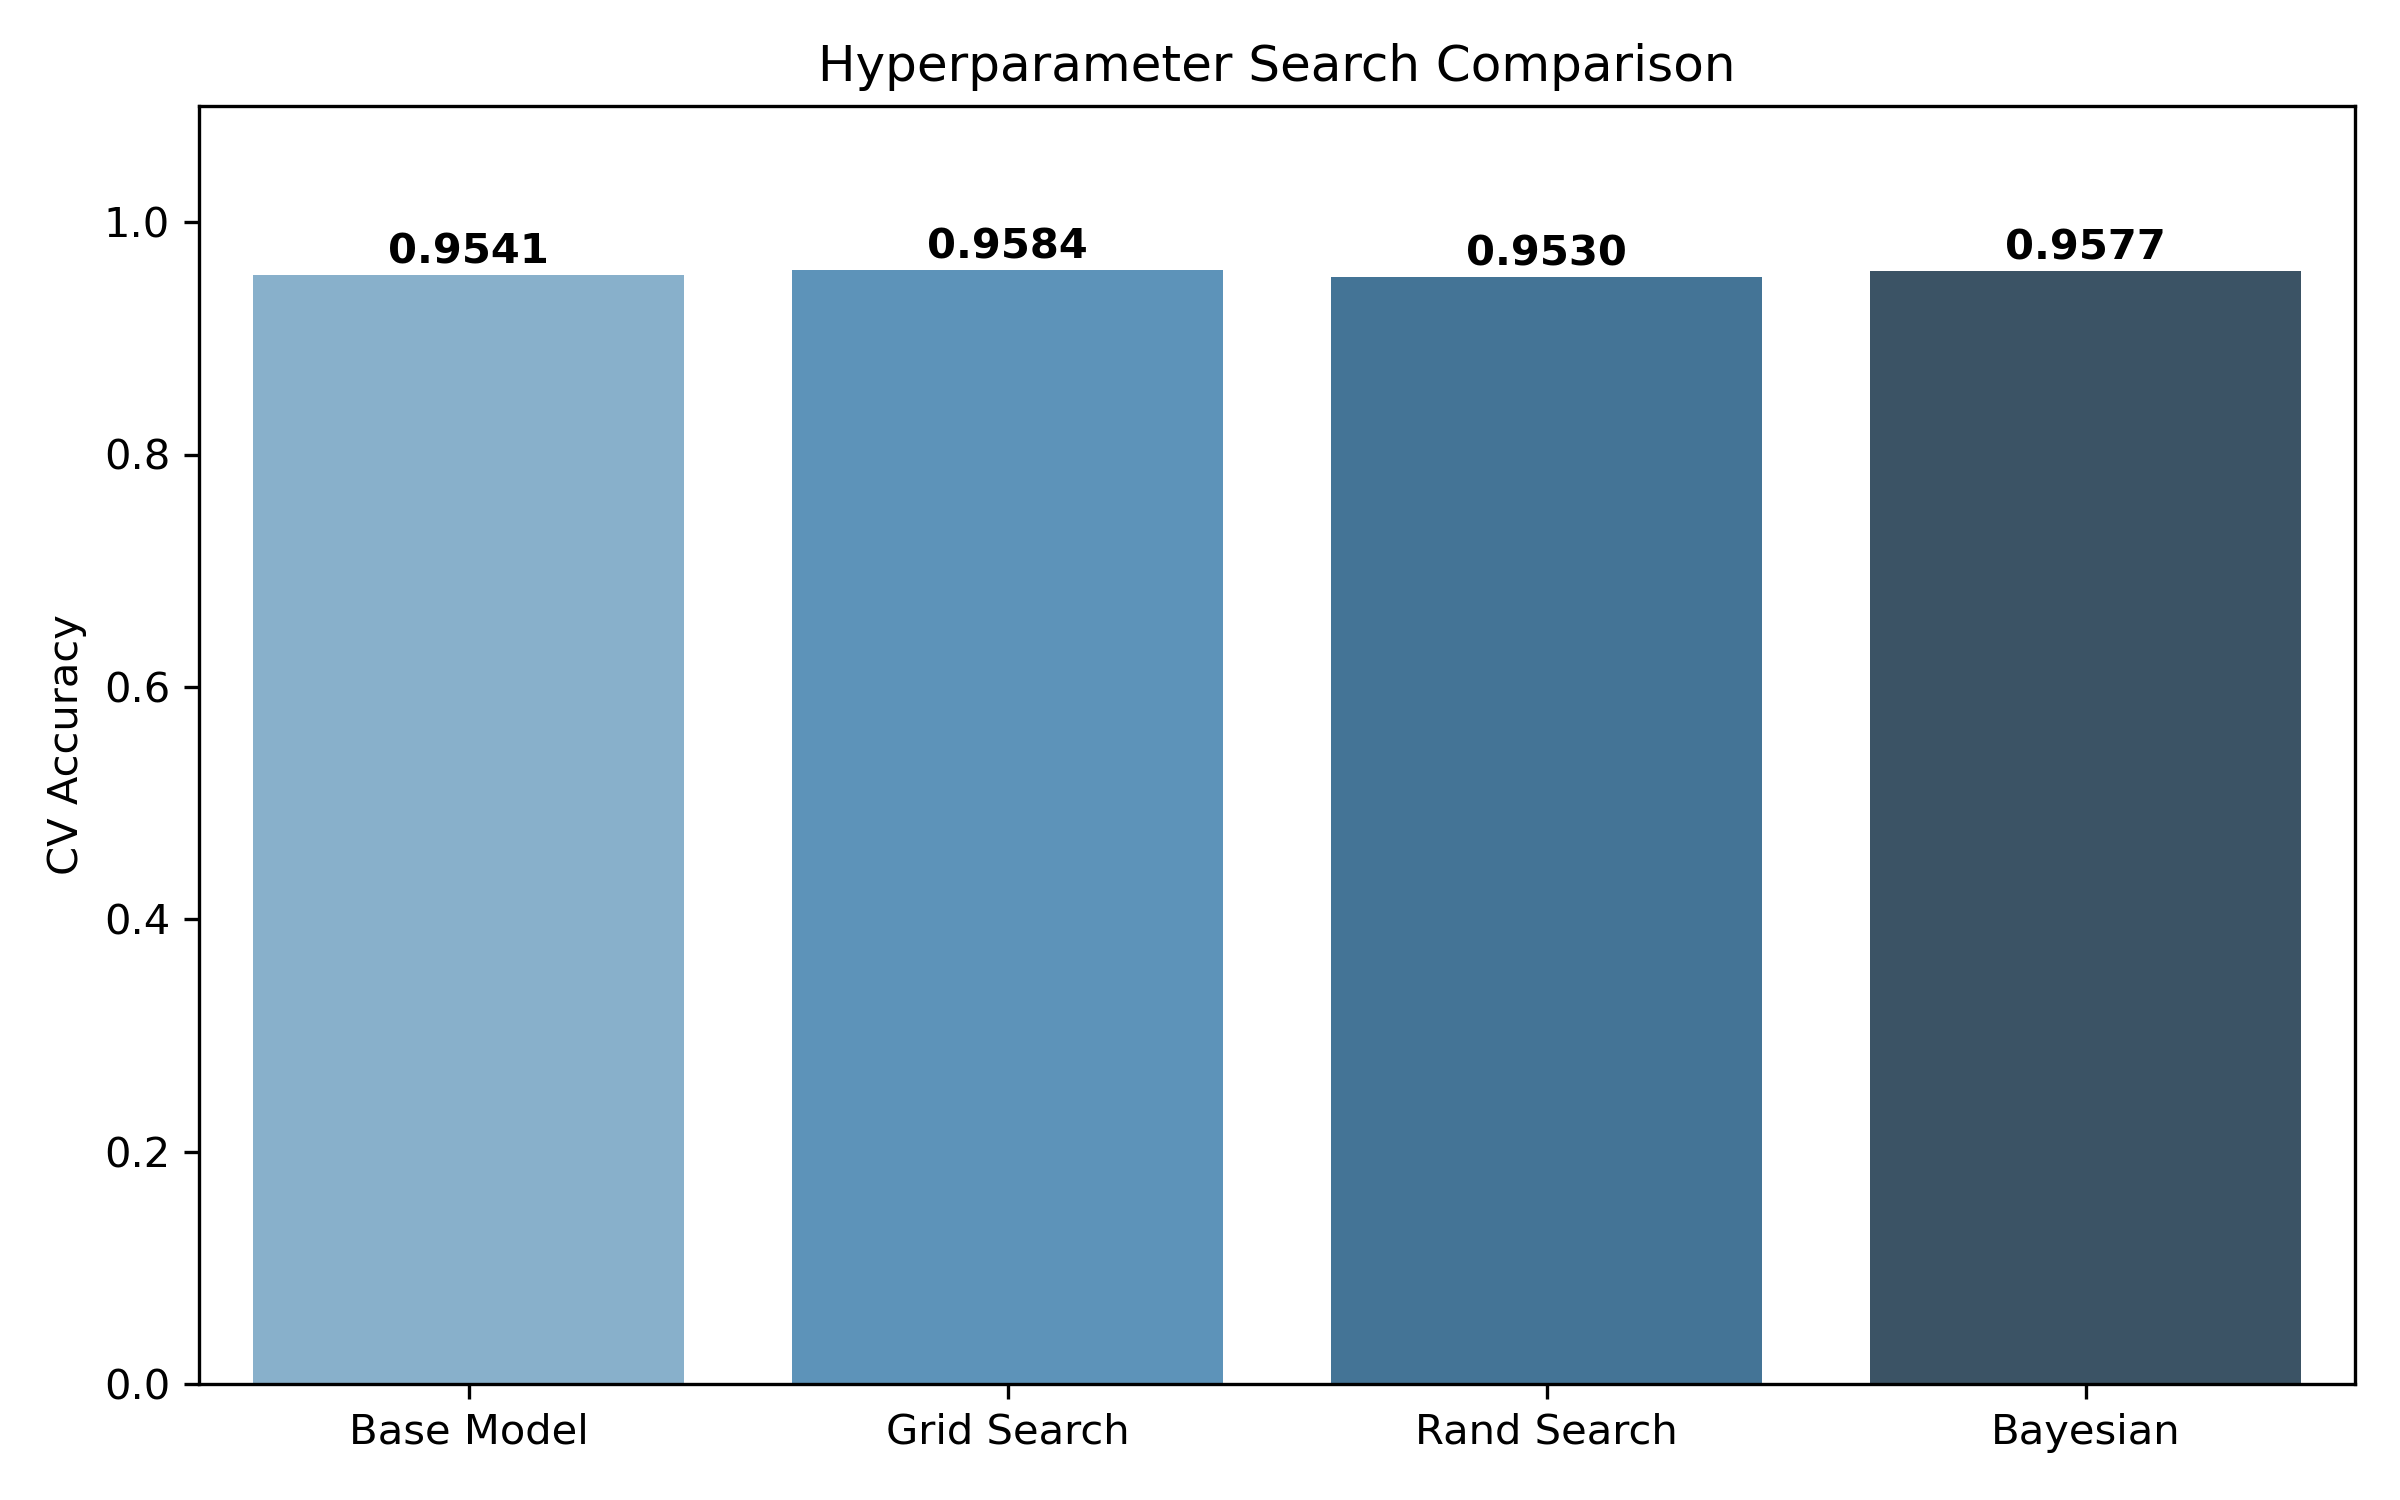
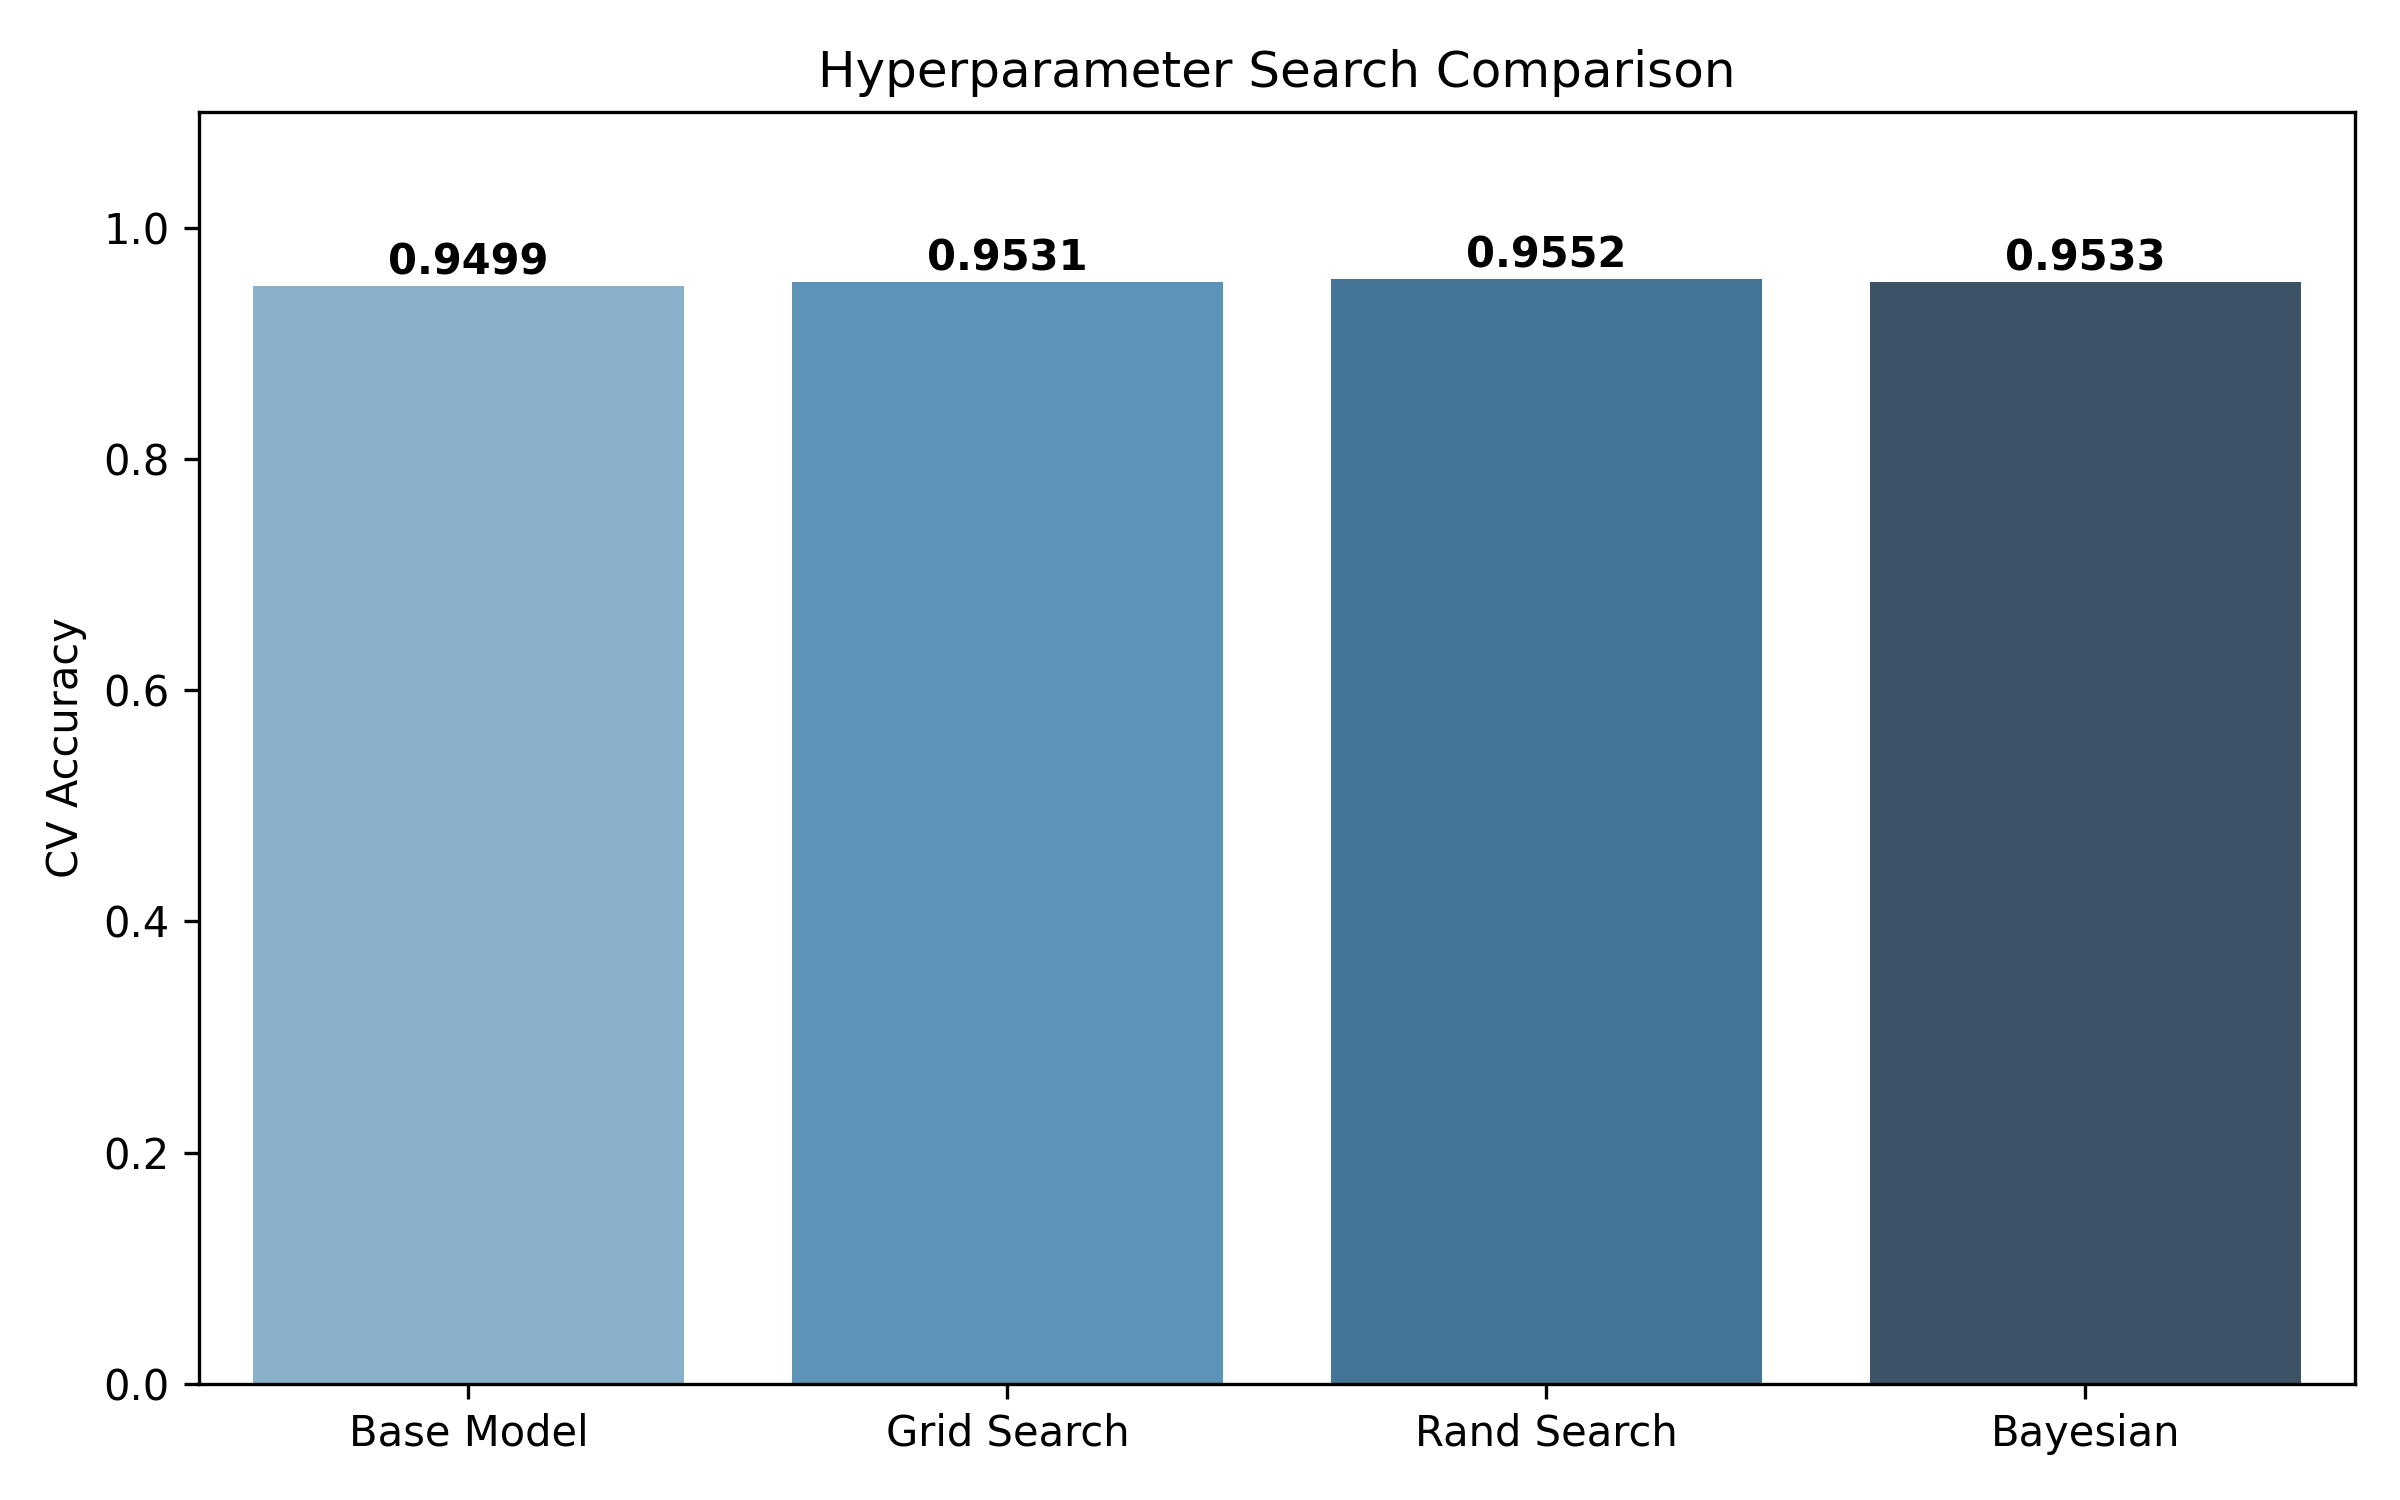
wdw
fwds

diff --git a/Feed-forward_neural_network/FNN.py b/Feed-forward_neural_network/FNN.py
@@ -44,15 +44,24 @@ class Config:
     RANDOM_STATE = 42
 
     # Architecture defaults (updated by best search result before final training)
+<<<<<<< Updated upstream
     HIDDEN_LAYERS = [128, 64, 32]
     ACTIVATION_FUNCTION = 'tanh'
+=======
+    HIDDEN_LAYERS = [128, 64]
+    ACTIVATION_FUNCTION = 'relu'
+>>>>>>> Stashed changes
     DROPOUT_RATE = 0.2
     LEARNING_RATE = 0.001
     L2_REGULARIZATION = 0.01
 
     BATCH_SIZE = 32
     EPOCHS = 100
+<<<<<<< Updated upstream
     SEARCH_EPOCHS = 35   # fewer epochs during hyperparameter search
+=======
+    SEARCH_EPOCHS = 20   # fewer epochs during hyperparameter search
+>>>>>>> Stashed changes
     EARLY_STOPPING_PATIENCE = 5
 
     CLASS_LABELS = {0: "N", 1: "NS", 2: "OT", 3: "NE", 4: "UT"}
@@ -64,6 +73,7 @@ class Config:
 
 def build_keras_model(input_dim, num_classes=5,
                        hidden_layers=None, activation='relu', dropout_rate=0.2, l2=0.0):
+    keras.backend.clear_session()
     if hidden_layers is None:
         hidden_layers = [128, 64, 32]
     model = Sequential()
@@ -129,9 +139,15 @@ def split_and_normalize(X, y, config):
 # ── Hyperparameter search ─────────────────────────────────────────────────────
 
 PARAM_SPACE = {
+<<<<<<< Updated upstream
     'model__hidden_layers': [ [128, 64], [256, 128], [128, 64, 32], [256, 128, 64], [128, 64, 32, 16] ],
     'model__activation': ['relu', 'tanh' ],
     'model__dropout_rate': [0.1, 0.2, 0.3],
+=======
+    'model__hidden_layers': [ [128, 64],[128, 64, 32], [256, 128], [256, 128, 64], [256, 128, 64, 32] ],
+    'model__activation': ['relu', 'tanh' ],
+    'model__dropout_rate': [0.1, 0.2],
+>>>>>>> Stashed changes
     'batch_size': [16, 32],
     'optimizer__learning_rate': [0.001, 0.0001],
     'model__l2': [0.0, 0.01],
@@ -156,8 +172,8 @@ def base_model_cv(X_train, y_labels, config):
     print("\nBase model cross-validation...")
     clf = make_clf(X_train.shape[1], len(config.CLASS_LABELS), config.SEARCH_EPOCHS)
     cv = StratifiedKFold(n_splits=5, shuffle=True, random_state=config.RANDOM_STATE)
-    scores = cross_val_score(clf, X_train, y_labels, cv=cv, scoring='accuracy')
-    print(f"  CV accuracy: {scores.mean():.4f} (+/- {scores.std():.4f})")
+    scores = cross_val_score(clf, X_train, y_labels, cv=cv, scoring='f1_macro')
+    print(f"  CV F1-Macro: {scores.mean():.4f} (+/- {scores.std():.4f})")
     return scores.mean(), None
 
 
@@ -166,7 +182,7 @@ def grid_search(X_train, y_labels, config):
     clf = make_clf(X_train.shape[1], len(config.CLASS_LABELS), config.SEARCH_EPOCHS)
 
     skf = StratifiedKFold(n_splits=5, shuffle=True, random_state=config.RANDOM_STATE)
-    search = GridSearchCV(clf, PARAM_SPACE, cv=skf, n_jobs=1, verbose=1)
+    search = GridSearchCV(clf, PARAM_SPACE, cv=skf, n_jobs=1, verbose=1, scoring='f1_macro', error_score='raise')
     search.fit(X_train, y_labels)
 
     print(f"  Best score:  {search.best_score_:.4f}")
@@ -174,17 +190,17 @@ def grid_search(X_train, y_labels, config):
     return search.best_score_, search.best_params_
 
 
-def random_search(X_train, y_labels, config, scoring='accuracy'):
+def random_search(X_train, y_labels, config, scoring='f1_macro'):
     # Perform Randomized Search CV for hyperparameter tuning of the FNN
     print("\nRandom Search CV...")
 
     # Define parameter distributions for the FNN
     param_distributions = {
-        'model__hidden_layers':     [[64], [128], [128, 64], [256, 128], [128, 64, 32]],
-        'model__activation':        ['relu', 'tanh', 'sigmoid'],
+        'model__hidden_layers':     [[128, 64],[128, 64, 32], [256, 128], [256, 128, 64], [256, 128, 64, 32]],
+        'model__activation':        ['relu', 'tanh'],
         'model__dropout_rate':      uniform(loc=0.1, scale=0.3),     # [0.1, 0.4)
-        'model__l2':                loguniform(1e-4, 1e-1),
-        'batch_size':               [16, 32, 64],
+        'model__l2':                loguniform(1e-4, 1e-1), # [0.0001, 0.1) on log scale]
+        'batch_size':               [16, 32],
         'optimizer__learning_rate': loguniform(1e-4, 1e-2),
     }
     # setup model
@@ -363,24 +379,21 @@ def solo_model(X_train, y_train, X_val, y_val, X_test, y_test, config):
 # ── Main pipeline ─────────────────────────────────────────────────────────────
 
 def main():
-    """
     print("Feed-Forward Neural Network — Multi-Class Classification\n")
-
+    
     # Load and prepare data
     X, y = load_data(Config.FEATURES_PATH, Config.LABELS_PATH)
     X_train, X_val, X_test, y_train, y_val, y_test = split_and_normalize(X, y, Config)
 
-    # Run all four search methods
+    # Run search methods (grid search excluded — too many candidates for available memory)
     print("\n--- Hyperparameter Search ---")
     base_score, _ = base_model_cv(X_train, y_train, Config)
-    grid_score, grid_params = grid_search(X_train, y_train, Config)
     random_score, random_params = random_search(X_train, y_train, Config)
     bayes_score, bayes_params = bayesian_search(X_train, y_train, Config)
 
     # Compare and pick the best
     results = {
         'Base Model': (base_score, None),
-        'Grid Search': (grid_score, grid_params),
         'Rand Search': (random_score, random_params),
         'Bayesian': (bayes_score, bayes_params),
     }
@@ -423,8 +436,13 @@ def main():
     """
     X, y = load_data(Config.FEATURES_PATH, Config.LABELS_PATH)
     X_train, X_val, X_test, y_train, y_val, y_test = split_and_normalize(X, y, Config)
+<<<<<<< Updated upstream
     model, history = solo_model(X_train, y_train, X_val, y_val, X_test, y_test, Config)
     model.save(Config.MODEL_SAVE_PATH)
+=======
+    solo_model(X_train, y_train, X_val, y_val, X_test, y_test, Config)
+    """
+>>>>>>> Stashed changes
 
 if __name__ == "__main__":
     main()